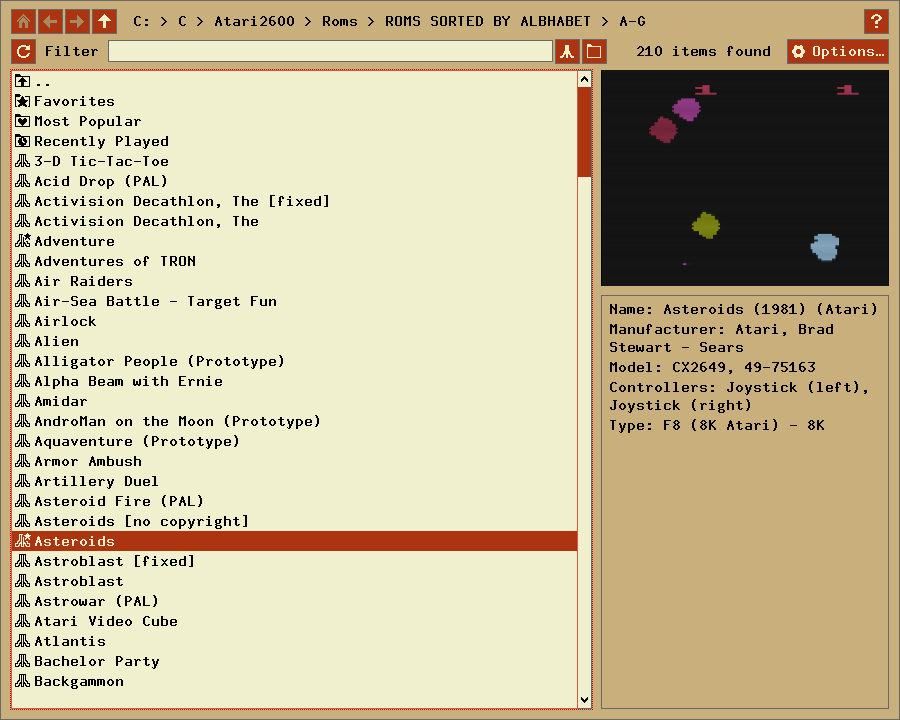
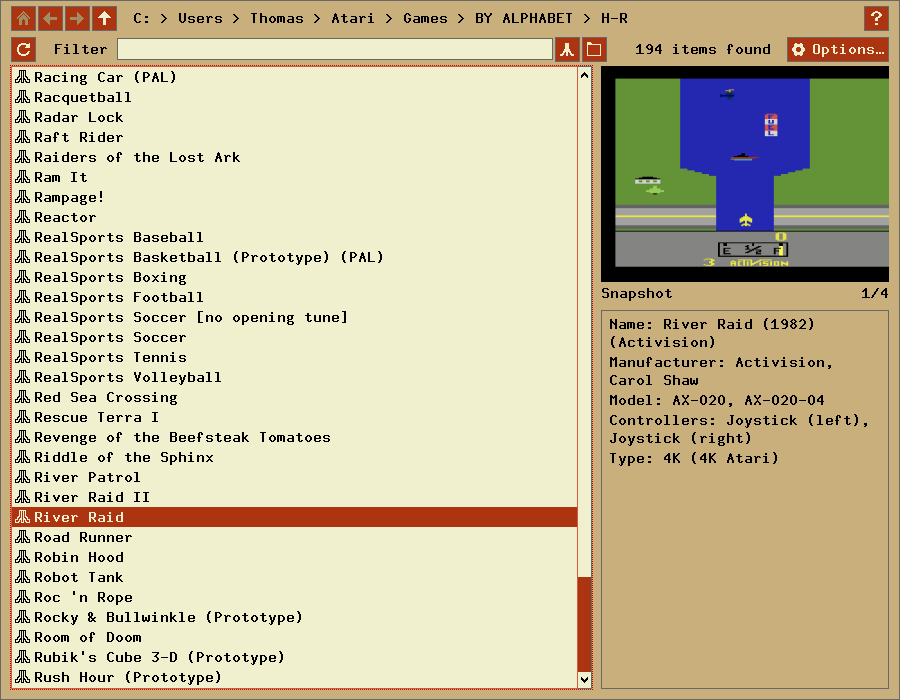
updated doc for multiple launcher images (TODO: R77)

diff --git a/docs/index.html b/docs/index.html
@@ -602,7 +602,7 @@
   <h3><a name ="CommandMenu"><b><u>Command Menu</u></b></a></h3>
 
   <p>While playing a game, normally one would use the keyboard shortcuts for controlling the
-  'virtual' switches in Stella (ie, the commands associated with the
+  'virtual' switches in Stella (e.g. the commands associated with the
   function keys as described in
   <b>Playing a Game - <a href="#Hotkeys">Hotkeys</a></b>).
   However, another alternative is available. Pressing the '\' key (default) toggles
@@ -612,7 +612,7 @@
   <p>This dialog contains a set of buttons that represent the same functionality
   as the function keys and display the current state. You may find this useful if
   you cannot remember all the function key events, or you wish to use Stella
-  without a keyboard (ie, in a standalone gaming system).</p>
+  without a keyboard (e.g. in a standalone gaming system).</p>
 
   <p>Note: Clicking the `?` at the top right opens this document at the related
   paragraph. This works for almost all dialogs. There is also a hotkey defined
@@ -2035,6 +2035,16 @@
       <td>Go to parent directory (also in other file dialogs)</td>
       <td>Backspace, Alt + Up arrow</td>
       <td>Backspace, Alt + Up arrow</td>
+    </tr>
+    <tr>
+      <td>Select previous snapshot</td>
+      <td>Control + Left arrow</td>
+      <td>Control + Left arrow</td>
+    </tr>
+    <tr>
+      <td>Select next snapshot</td>
+      <td>Control + Right arrow</td>
+      <td>Control + Right arrow</td>
     </tr>
     <tr>
       <td>Remove from 'Recently Played' or 'Most Popular' folder</td>
@@ -4025,8 +4035,13 @@
 
   <p>Stella supports viewing snapshots and ROM properties of the currently
   selected ROM in the ROM launcher. Support is automatic, as long as your
-  image directory contains snapshots in the appropriate format. An
-  <a href="https://stella-emu.github.io/stella-snapshots.zip">archive</a> of updated snapshots is available on the Stella webpage.
+  image directory contains snapshots in the appropriate format. The title
+  (if existing) and the number of matching snapshots are displayed under the
+  current one. The mouse or the launcher hotkeys can be used to browse the
+  snapshots.
+
+  An <a href="https://stella-emu.github.io/stella-snapshots.zip">archive</a> of
+  updated snapshots is available on the Stella webpage.
   This archive may be updated periodically as new ROMs are found, and also
   for each new release of Stella. In case no snapshot is found, you can
   provide a default image named 'default_snapshot.png'.
@@ -4044,10 +4059,10 @@
   <p>ROM Info Viewer width at 40%, UI sized 800x480, small launcher font, bottom buttons enabled:</p>
   <img src="graphics/rominfo_1x_small.png">
 
-  <p>ROM Info Viewer width at 32%, UI sized 900x720, medium launcher font, bottom buttons disabled::</p>
+  <p>ROM Info Viewer width at 32%, UI sized 900x720, medium launcher font, bottom buttons disabled:</p>
   <img src="graphics/rominfo_1x_large.png">
 
-  <p>ROM Info Viewer width at 50% , UI sized 1280x900, large launcher font, bottom buttons disabled::</p>
+  <p>ROM Info Viewer width at 50% , UI sized 1280x900, large launcher font, bottom buttons disabled:</p>
   <img src="graphics/rominfo_2x_small.png">
 
   <p>The dialog items at the top can be used to define the listed files and to navigate your folders:</p>
